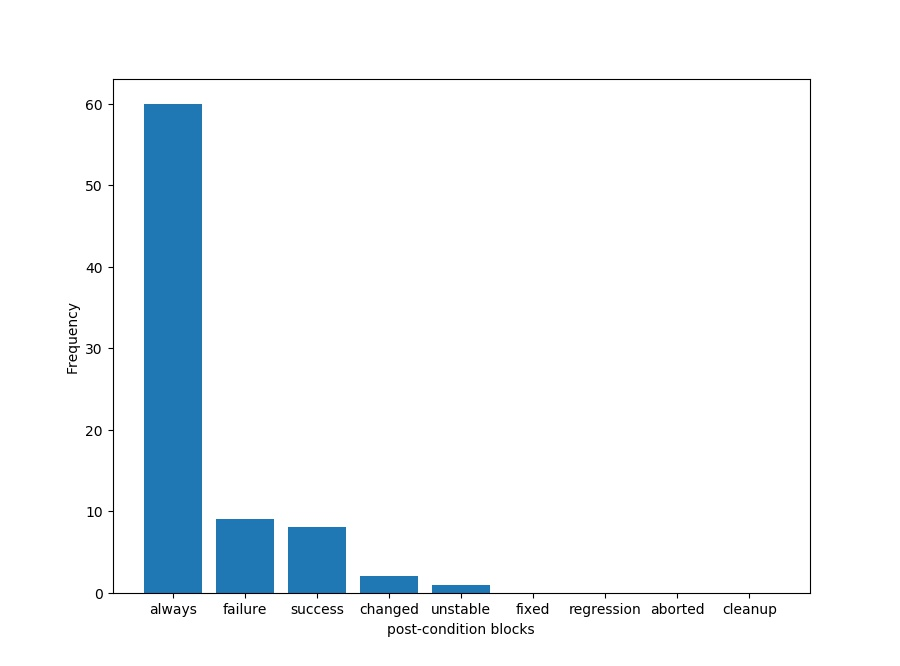
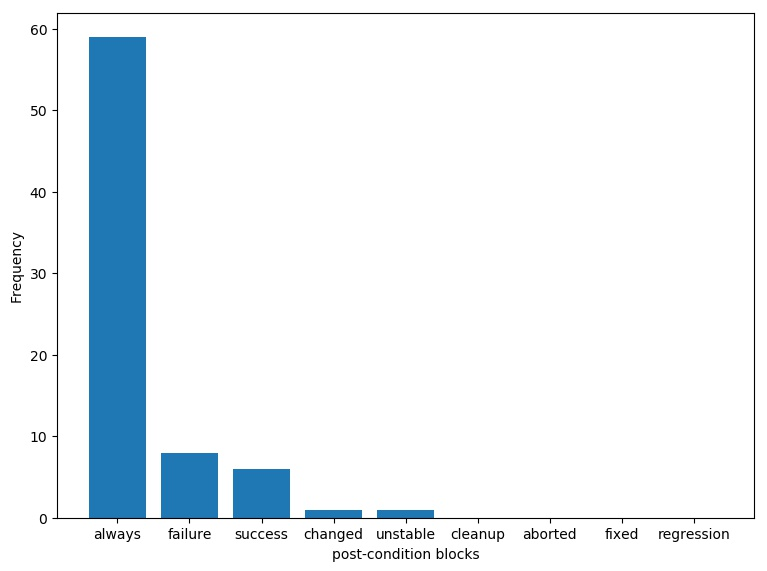
no message

diff --git a/app/q1/post_section.py b/app/q1/post_section.py
@@ -25,7 +25,7 @@ plt.xticks(np.arange(9),myKeys)
 plt.xlabel('post-condition blocks')
 plt.ylabel('Frequency')
 
-fig.savefig('post_section.jpg')
+fig.savefig('post_section.jpg',bbox_inches="tight")
 
 #Graph 2
 with open('intermediateOutput_2.json') as f:
@@ -45,4 +45,4 @@ plt.xlabel('post-condition command')
 plt.ylabel('Frequency')
 #plt.autoscale_view()
 
-fig.savefig('post_section_cmds.jpg')
+fig.savefig('post_section_cmds.jpg',bbox_inches="tight")

diff --git a/app/q2/calcCorr.py b/app/q2/calcCorr.py
@@ -23,7 +23,7 @@ with open('finalOutput.json','r+',encoding="utf8") as f:
 	json.dump(full,f,indent=4)
 	f.truncate()
 
-xy = [[0]*(len(set(stageCountList))) for i in range(max(triggerList)+1)]
+xy = [[0]*(max(stageCountList)) for i in range(max(triggerList)+1)]
 for i in range(len(stageCountList)):
     #print(i)
     xy[triggerList[i]][stageCountList[i]-1] += 10
